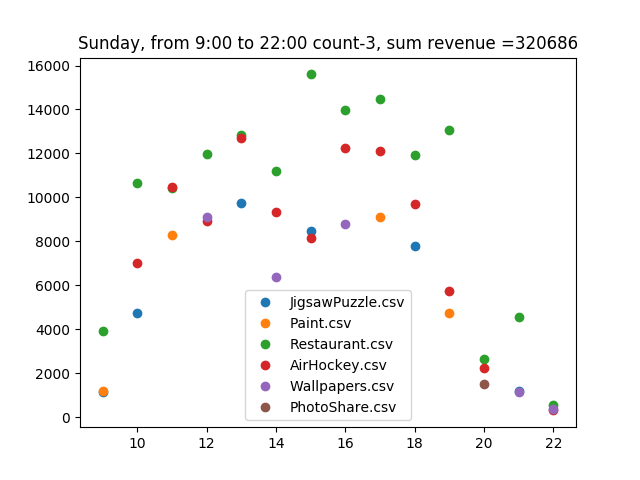
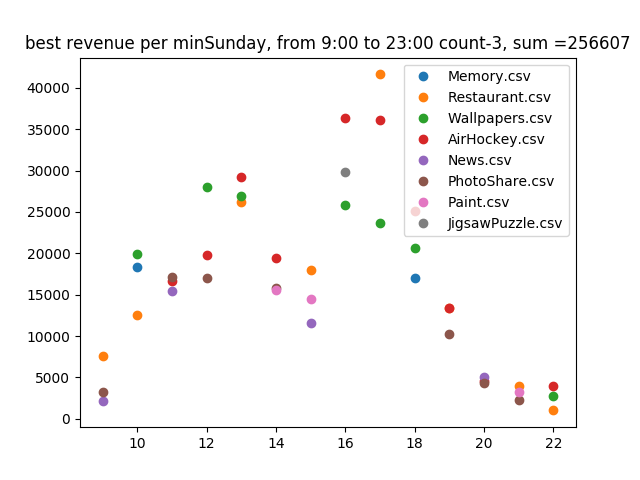
[visualize] fixed graph colors

diff --git a/src/visualisation/visualize.py b/src/visualisation/visualize.py
@@ -5,19 +5,20 @@ from settings import PROCESSED_PATH, PROCESSED_APPS_PATH, REPORTS_PATH
 from utils import file_utils
 
 
-def show_apps_sum_revenue(count=3, weekday=0, time_range=[0, 23]):
+def show_apps_sum_revenue(count=3, weekday=0, time_range=(0, 23)):
     apps = get_best_apps(count, weekday, time_range)
     fig, ax = plt.subplots()
     day_name = calendar.day_name[weekday]
 
     for app in apps:
-        ax.plot(app['hours'], app['values'], 'o', label=app['name'])
+        ax.plot(app['hours'], app['revenue_per_min'], 'o', label=app['name'])
 
-    sum_revenue = int(sum([sum(app['values']) for app in apps]))
+    sum_revenue = int(sum([sum(app['revenue']) for app in apps]))
     ax.set_title(''.join([
+        'best revenue per min',
         day_name, ', from ', str(time_range[0]), ':00 to ', str(time_range[1]),
         ':00 count-', str(count),
-        ', sum revenue =', str(sum_revenue)
+        ', sum =', str(sum_revenue)
     ]))
     ax.legend()
 
@@ -33,25 +34,28 @@ def get_best_apps(count, weekday, time_range):
     for app in apps:
         for index, hour in enumerate(app['hours']):
             if time_range[0] <= hour and hour <= time_range[1]:
-                val = app['values'][index]
+                revenue_per_min = app['revenue_per_min'][index]
                 if not hour in best_apps:
                     best_apps[hour] = []
 
-                if len(best_apps[hour]) < count:
-                    best_apps[hour].append({'val': val, 'name': app['name']})
-                else:
-                    best_apps[hour].append({'val': val, 'name': app['name']})
-                    min_revenue_app = min(best_apps[hour], key=lambda x: x['val'])
+                best_apps[hour].append({
+                    'revenue_per_min': revenue_per_min,
+                    'name': app['name'],
+                    'revenue': app['revenue'][index]
+                })
 
+                if len(best_apps[hour]) > count:
+                    min_revenue_app = min(best_apps[hour], key=lambda x: x['revenue_per_min'])
                     best_apps[hour].remove(min_revenue_app)
 
     plot_data = {}
     for key in best_apps.keys():
         for index, app in enumerate(best_apps[key]):
             if app['name'] not in plot_data:
-                plot_data[app['name']] = {'hours': [], 'values': [], 'name': app['name']}
+                plot_data[app['name']] = {'hours': [], 'revenue': [], 'revenue_per_min': [], 'name': app['name']}
             plot_data[app['name']]['hours'].append(key)
-            plot_data[app['name']]['values'].append(app['val'])
+            plot_data[app['name']]['revenue'].append(app['revenue'])
+            plot_data[app['name']]['revenue_per_min'].append(app['revenue_per_min'])
 
     return [plot_data[key] for key in plot_data.keys()]
 
@@ -84,22 +88,32 @@ def get_apps_sum_revenue(weekday_index):
 
 
 def sum_revenue(data, file_name):
-    revenue_key = 'Revenue'
-    sum_revenue = {}
+    sum_full_revenue = {}
+    sum_revenue_per_min = {}
     plot_data = {
         'hours': [],
-        'values': []
+        'revenue': [],
+        'revenue_per_min': []
     }
 
-    for index, el in enumerate(data[revenue_key]):
+    for index, el in enumerate(data['Revenue']):
         hour = int(data['Hours'][index])
-        revenue = data[revenue_key][index]
-        if not hour in sum_revenue:
-            sum_revenue[hour] = 0
-        sum_revenue[hour] += revenue
+        duration = data['Duration'][index]
+        revenue = data['Revenue'][index]
+        if not hour in sum_full_revenue:
+            sum_full_revenue[hour] = 0
+            sum_revenue_per_min[hour] = 0
+        sum_full_revenue[hour] += revenue
+        sum_revenue_per_min[hour] += revenue / (duration or 1)
 
-    for hour in sorted(sum_revenue):
+    for hour in sum_full_revenue:
         plot_data['hours'].append(hour)
-        plot_data['values'].append(sum_revenue[hour])
+        plot_data['revenue'].append(sum_full_revenue[hour])
+        plot_data['revenue_per_min'].append(sum_revenue_per_min[hour])
 
-    return {'hours': plot_data['hours'], 'values': plot_data['values'], 'name': file_name}
+    return {
+        'hours': plot_data['hours'],
+        'revenue': plot_data['revenue'],
+        'revenue_per_min': plot_data['revenue_per_min'],
+        'name': file_name
+    }

diff --git a/src/main.py b/src/main.py
@@ -21,9 +21,9 @@ def prepare_data():
 
 def show_best_apps(count):
     for weekday in range(0, 7):
-        visualize.show_apps_sum_revenue(count=count, weekday=weekday, time_range=[9, 22])
+        visualize.show_apps_sum_revenue(count=count, weekday=6, time_range=[9, 23])
 
 
 if __name__ == '__main__':
-    # prepare_data()
+    prepare_data()
     show_best_apps(3)
